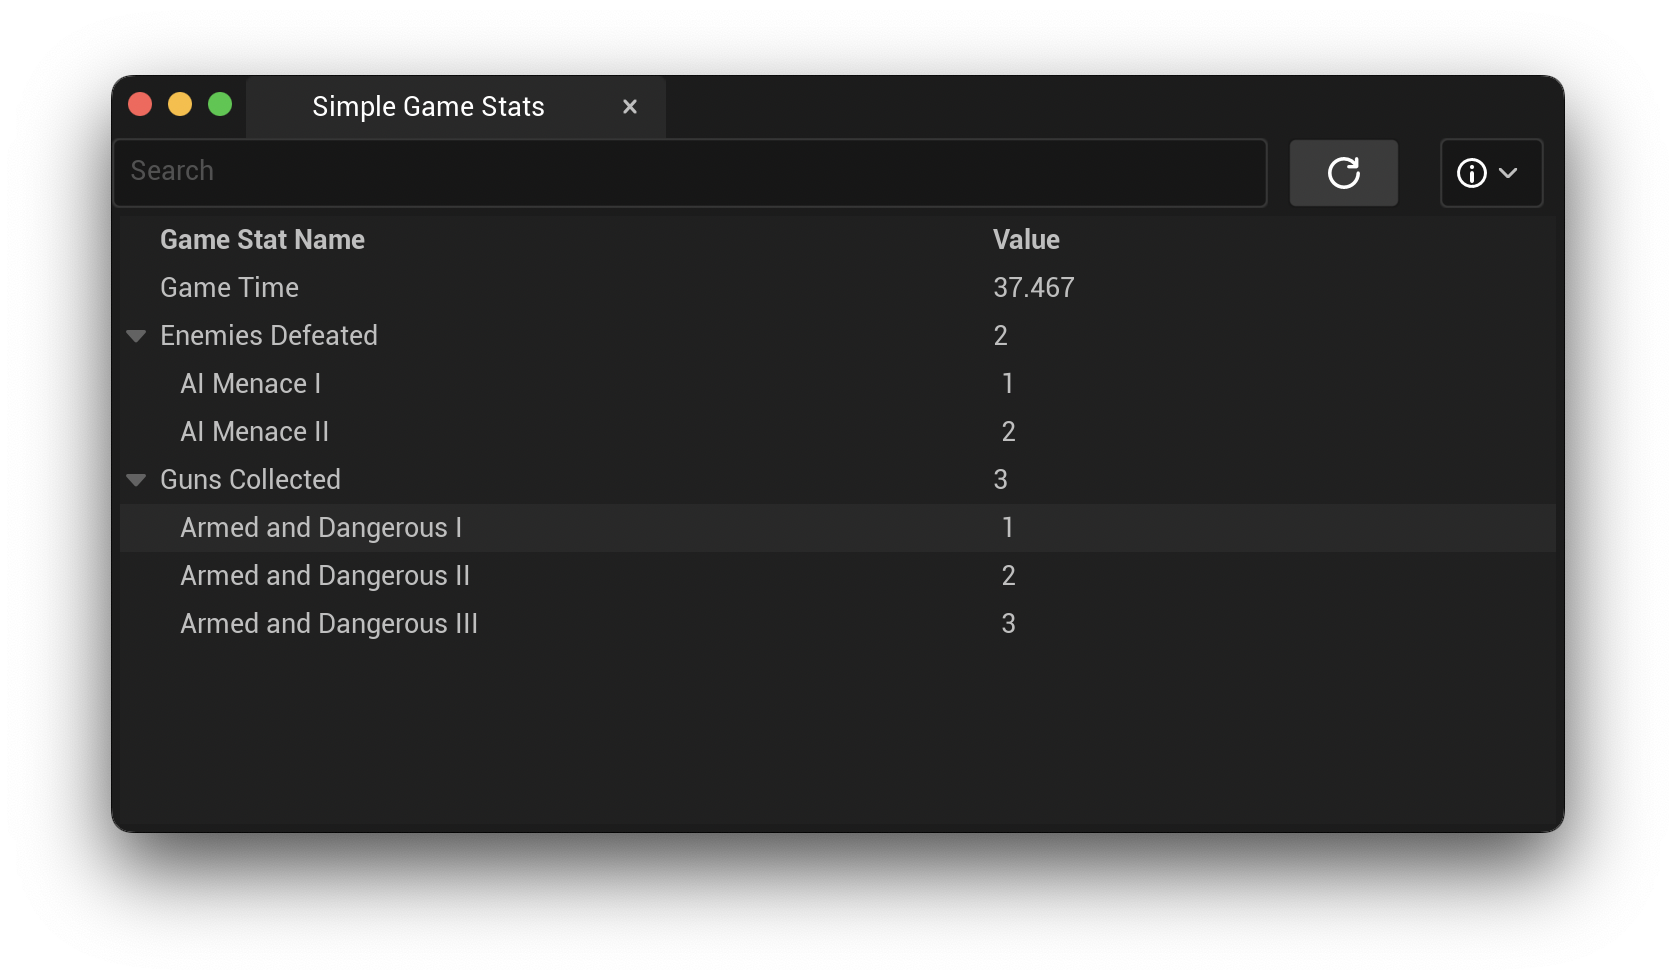
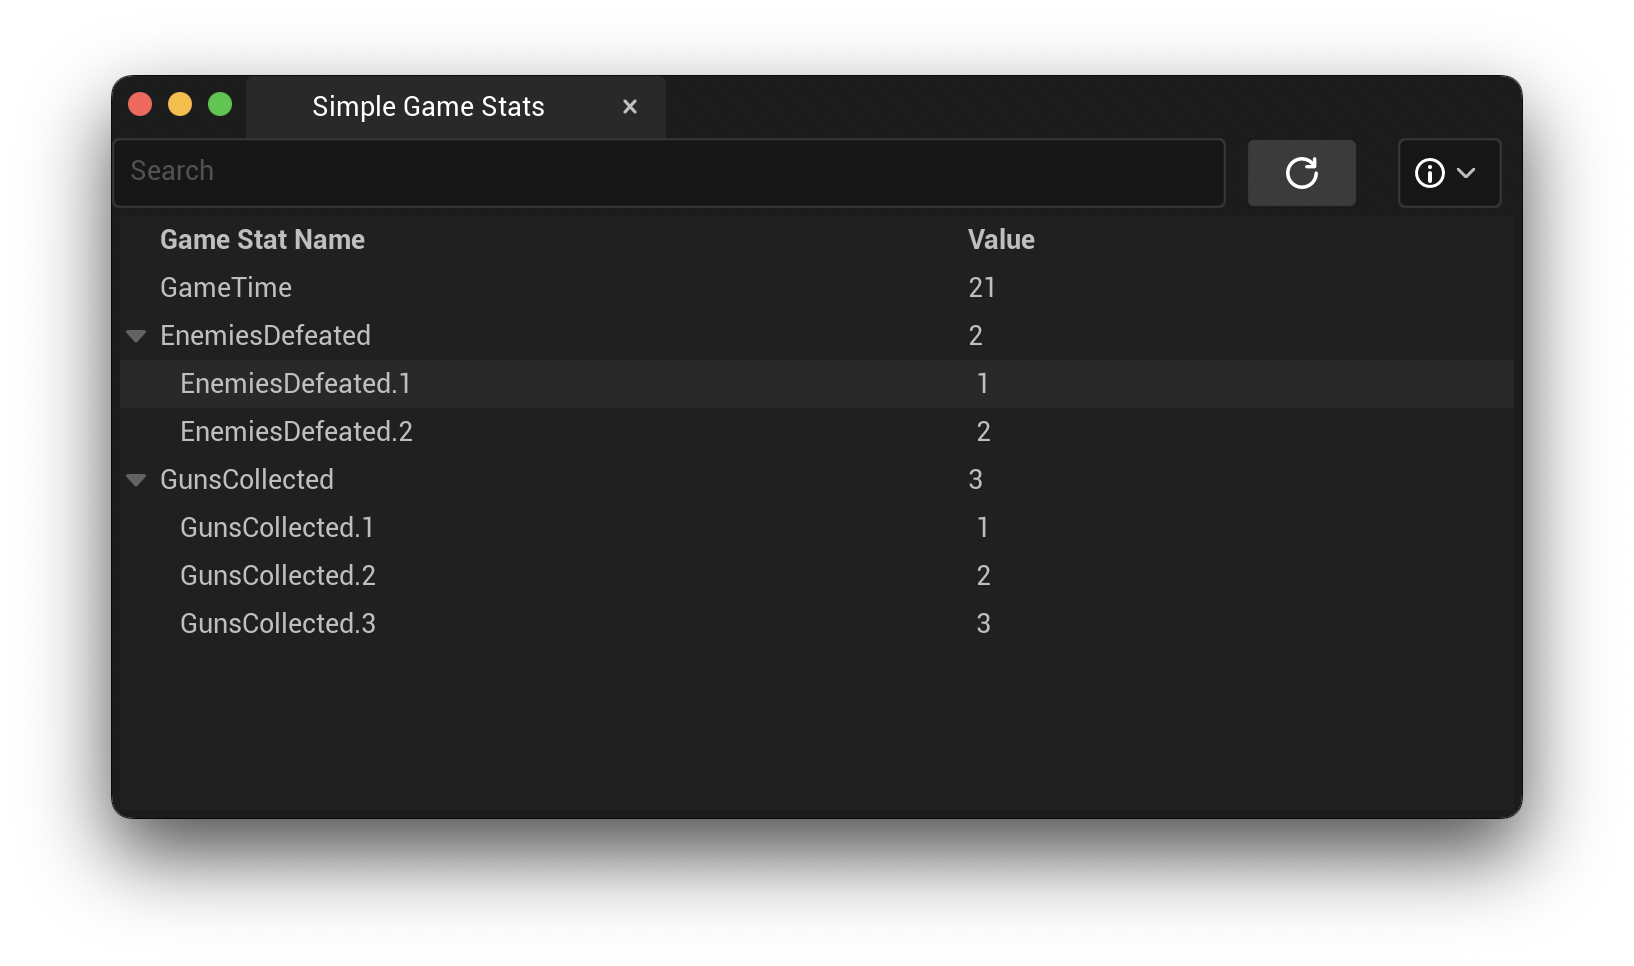
Updated documentation to reflect v1.1.0

diff --git a/docs/Setup.md b/docs/Setup.md
@@ -1,6 +1,6 @@
 # Setup
 
-Once the plugin is installed and enabled in Unreal Engine, if you want to use the plugin with C++, you will need to add `SimpleGameStats` to your project file, `<YourGame>.uproject`, under `Modules -> AdditionalDepenedencies`. Here's the example's project file for reference:
+Once the plugin is installed and enabled in Unreal Engine, if you want to use the plugin with C++, you will need to add `SimpleGameStats` to your project file, `<YourGame>.uproject`, under `Modules -> AdditionalDepenedencies` and the `Plugins` array. Here's the example's project file for reference:
 
 ```
 {
@@ -37,7 +37,12 @@ Once the plugin is installed and enabled in Unreal Engine, if you want to use th
         {
             "Name": "GameplayStateTree",
             "Enabled": true
-        }
+        },
+		{
+			"Name": "SimpleGameStats",
+			"Enabled": true,
+			"MarketplaceURL": "com.epicgames.launcher://ue/Fab/product/44e2d0d4-120c-4b6a-972a-b92c3887902d"
+		}
     ]
 }
 ```
@@ -52,9 +57,16 @@ With the Data Asset created, open it, and define your game's stats. The followin
 
 ![Example of 2 Game Stats Definitions with Milestones](./Images/StatsDefinitionDataAsset.png)
 
-The above image shows the definition of 2 game stats. The first one is "Game Time". I'm using this stat to track how long the player is playing the game. This stat does not define any milestones.
+The above image shows the definition of 2 game stats. The first one is "GameTime". I'm using this stat to track how long the player is playing the game. This stat does not define any milestones.
 
-The second stat is "Enemies Defeated". This tracks how many enemies the player defeats in the example project. For this stat, I've defined two milestones.
+The second stat is "EnemiesDefeated". This tracks how many enemies the player defeats in the example project. For this stat, I've defined two milestones.
+
+**Identifying Names (IDs)**
+
+* **EnemiesDefeated.1** - Requires 1 enemy killed
+* **EnemiesDefeated.2** - Requires 2 enemies killed
+
+**Localized Names**
 
 * **AI Menace I** - Requires 1 enemy killed
 * **AI Menace II** - Requires 2 enemy killed
@@ -63,7 +75,7 @@ When the value of the stat is greater than or equal to the configured value in t
 
 ## Register Stat Definitions
 
-To register the Simple Game Stats Definition asset, the `SimpleGameStatsSubsystem` has the `RegisterGameStats(USimpleGameStatsDefinition* Definitions)` function. You may use this in either C++ or Blueprints to register the data asset. Once registered, the corresponding stats will be tracked within the subsystem.
+To register the Simple Game Stats Definition asset, the `SimpleGameStatsSubsystem` has the `RegisterGameStats(USimpleGameStatsDefinition* Definitions)` function. You may use this in either C++ or Blueprints to register the data asset. Once registered, the corresponding stats will be created & tracked within the subsystem.
 
 **Blueprint**
 
@@ -79,7 +91,7 @@ if (IsValid(StatsSubsystem)) {
 }
 ```
 
-Please note that all game stats are identified by name. Names must be unique. In the event you attempt to register a game stat with an existing name, the subsystem will ignore the new stat.
+Please note that all game stats are identified by name. Names must be unique. In the event you attempt to register a game stat with an existing name, the subsystem will ignore the new stat and all milestones.
 
 In addition, you may register as many stat definition assets as you like provided the stat names are unique across all assets.
 
@@ -104,3 +116,5 @@ StatsSubsystem->OnGameStatMilestoneReachedEvent.AddDynamic(this, &AShooterGameMo
 The first event, `OnGameStatChangeEvent`, is published when any registered game stat value changes. This can be used to update UI elements tied to stats or inform different systems of the update.
 
 The second event, `OnGameStatMilestoneReachedEvent`, is published when a registered game stat's milestone target value is reached. This can be used to connect to other achievement or analytics systems.
+
+**Please Note**: `OnGameStatMilestoneReachedEvent` will broadcast prior to `OnGameStatChangeEvent`. This is to ensure all milestone data is up-to-date when `OnGameStatChangeEvent` broadcasts.

diff --git a/docs/ExampleProject.md b/docs/ExampleProject.md
@@ -4,14 +4,14 @@ The provided example project is the Unreal Engine 5.6 First Person template prov
 
 In the example project, I've registered three stats with various milestones:
 
-* Game Time
-* Enemies Defeated
-    * AI Menace I, Target Value: 1
-    * AI Menace II, Target Value: 2
-* Guns Collected
-    * Armed and Dangerous I, Target Value: 1
-    * Armed and Dangerous II, Target Value: 2
-    * Armed and Dangerous III, Target Value: 3
+* GameTime
+* EnemiesDefeated
+    * EnemiesDefeated.1 - AI Menace I, Target Value: 1
+    * EnemiesDefeated.2 - AI Menace II, Target Value: 2
+* GunsCollected
+    * GunsCollected.1 - Armed and Dangerous I, Target Value: 1
+    * GunsCollected.2 - Armed and Dangerous II, Target Value: 2
+    * GunsCollected.3 - Armed and Dangerous III, Target Value: 3
 
 In addition, I've added a Blueprint Compatible C++ Constants file. This avoids using "magic strings" throughout the project. Please create an equivalent in your project to avoid problems when renaming or removing stats.
 
@@ -27,13 +27,13 @@ class STATPLUGINEXAMPLE_API UStatConstants : public UObject
     
 public:
     UFUNCTION(BlueprintPure, Category="Stat Constants")
-    static FName GetStatName_GameTime() { return FName("Game Time"); }
+    static FName GetStatName_GameTime() { return FName("GameTime"); }
     
     UFUNCTION(BlueprintPure, Category="Stat Constants")
-    static FName GetStatName_EnemiesDefeated() { return FName("Enemies Defeated"); }
+    static FName GetStatName_EnemiesDefeated() { return FName("EnemiesDefeated"); }
     
     UFUNCTION(BlueprintPure, Category="Stat Constants")
-    static FName GetStatName_GunsCollected() { return FName("Guns Collected"); }
+    static FName GetStatName_GunsCollected() { return FName("GunsCollected"); }
 };
 ```
 
@@ -59,7 +59,7 @@ void AShooterGameMode::BeginPlay()
 
 ## AShooterCharacter
 
-For tracking the "Guns Collected" stat, I'm modifying the `AShooterCharacter` class, the `AddWeaponClass` function. This is the class in the example that is inherited by `BP_ShooterCharacter`, the player character.
+For tracking the "GunsCollected" stat, I'm modifying the `AShooterCharacter` class, the `AddWeaponClass` function. This is the class in the example that is inherited by `BP_ShooterCharacter`, the player character.
 
 ```c++
 void AShooterCharacter::AddWeaponClass(const TSubclassOf<AShooterWeapon>& WeaponClass)
@@ -79,11 +79,11 @@ void AShooterCharacter::AddWeaponClass(const TSubclassOf<AShooterWeapon>& Weapon
 }
 ```
 
-Using the `SimpleGameStatsSubsystem`, I call `IncrementStat` for the "Guns Collected" stat every time the player picks up a new kind of weapon.
+Using the `SimpleGameStatsSubsystem`, I call `IncrementStat` for the "GunsCollected" stat every time the player picks up a new kind of weapon.
 
 ## AShooterNPC
 
-For tracking the "Enemies Defeated" stat, I'm modifying the `AShooterNPC` class, the `Die` function. This is the class in the example that is inherited by `BP_ShooterNPC`, the AI enemies.
+For tracking the "EnemiesDefeated" stat, I'm modifying the `AShooterNPC` class, the `Die` function. This is the class in the example that is inherited by `BP_ShooterNPC`, the AI enemies.
 
 ```c++
 void AShooterNPC::Die()
@@ -106,11 +106,11 @@ void AShooterNPC::Die()
 }
 ```
 
-Using the `SimpleGameStatsSubsystem`, I call `IncrementStat` for the "Enemies Defeated" stat every time the AI NPC dies.
+Using the `SimpleGameStatsSubsystem`, I call `IncrementStat` for the "EnemiesDefeated" stat every time the AI NPC dies.
 
 ## BP_ShooterGameMode
 
-For tracking the "Game Time" stat, I'm modifying the `BP_ShooterGameMode` blueprint, the `Event Tick` event. I've also added a new function to retrieve the current "Game Time" stat value.
+For tracking the "GameTime" stat, I'm modifying the `BP_ShooterGameMode` blueprint, the `Event Tick` event. I've also added a new function to retrieve the current "GameTime" stat value.
 
 *GetGameTimeStatValue:*
 

diff --git a/docs/APIReference.md b/docs/APIReference.md
@@ -13,13 +13,16 @@ This document provides a reference for all public classes, structs, properties, 
 ## **Classes**
 
 ### `USimpleGameStatsSubsystem`
+
 `UGameInstanceSubsystem` that manages all registered stats at runtime.
 
 **Events**
+
 - `OnGameStatChangeEvent (USimpleGameStat* Stat)`
 - `OnGameStatMilestoneReachedEvent (USimpleGameStat* Stat, USimpleGameStatMilestone* Milestone)`
 
 **Functions**
+
 - `void GetStorage(FSimpleGameStatsSubsystemStorage& Result) const`
 - `void GetGameStats(TMap<FName, USimpleGameStat*>& Result) const`
 - `void GetGameStat(FName StatName, USimpleGameStat*& Result) const`
@@ -29,59 +32,79 @@ This document provides a reference for all public classes, structs, properties, 
 - `void DecrementStat(FName StatName, float Amount = 1, bool bBroadcastEvent = true)`
 - `void RemoveGameStat(const FName StatName, bool& Result)`
 - `void RemoveAllGameStats()`
+- `void ResetStat(FName StatName, bool bBroadcastEvent = true)`
+- `void ResetAllStats(bool bBroadcastEvent = true)`
 - `void InflateFromStorage(FSimpleGameStatsSubsystemStorage Storage)`
 
 ### `USimpleGameStat`
+
 `UObject` subclass that represents a single tracked stat and its milestones.
 
 **Properties**
+
 - `FName StatName`: Name of the stat.
+- `FText LocalizedStatName`: Localized name of the stat.
+- `FText LocalizedStatDescription`: Localized description of the stat.
 - `float Value`: Current value of the stat.
 - `TArray<USimpleGameStatMilestone*> Milestones`: Collection of milestones associated with this stat.
 
 **Events**
+
 - `OnChangeEvent (USimpleGameStat* Stat)`: Fired when the stat’s value changes.
 - `OnMilestoneReachedEvent (USimpleGameStat* Stat, USimpleGameStatMilestone* Milestone)`: Fired when a milestone is reached.
 
 **Functions**
+
 - `void GetStorage(FSimpleGameStatStorage& Result)`
 - `void GetValue(float& Result) const`
 - `void SetValue(float NewValue, bool bBroadcastEvent = true)`
 - `void Increment(float Amount = 1, bool bBroadcastEvent = true)`
 - `void Decrement(float Amount = 1, bool bBroadcastEvent = true)`
+- `void Reset(bool bBroadcastEvent = true)`
 - `void InflateFromStorage(FSimpleGameStatStorage Storage)`
 
 ### `USimpleGameStatMilestone`
+
 `UObject` subclass that represents a single milestone for a stat.
 
 **Properties**
+
 - `FName MilestoneName`: Name of the milestone.
+- `FText LocalizedMilestoneName`: Localized name of the milestone.
+- `FText LocalizedMilestoneDescription`: Localized description of the milestone.
 - `float TargetValue`: Required value to reach this milestone.
 - `bool bReached`: Whether the milestone has been reached.
 - `FDateTime ReachedTimestamp`: UTC timestamp when reached.
 
 ### `USimpleGameStatsDefinition`
+
 `UDataAsset` that defines all stats and their milestones for registration.
 
 **Properties**
+
 - `TArray<FSimpleGameStatDefinition> StatDefinitions`: List of all stat definitions.
 
 ## **Structs**
 
 ### `FSimpleGameStatDefinition`
+
 Defines a stat and its initial properties.
 
 - `FName StatName`
+- `FText LocalizedStatName`
+- `FText LocalizedStatDescription`
 - `float DefaultValue`
 - `TArray<FSimpleGameStatMilestoneDefinition> Milestones`
 
 ### `FSimpleGameStatMilestoneDefinition`
+
 Defines a milestone within a stat definition.
 
 - `FName MilestoneName`
 - `float TargetValue`
 
 ### `FSimpleGameStatStorage`
+
 Runtime storage for a stat.
 
 - `FName StatName`
@@ -89,14 +112,18 @@ Runtime storage for a stat.
 - `TArray<FSimpleGameStatMilestoneStorage> Milestones`
 
 ### `FSimpleGameStatMilestoneStorage`
+
 Runtime storage for a milestone.
 
 - `FName MilestoneName`
+- `FText LocalizedMilestoneName`
+- `FText LocalizedMilestoneDescription`
 - `float TargetValue`
 - `bool bReached`
 - `FDateTime ReachedTimestamp`
 
 ### `FSimpleGameStatsSubsystemStorage`
+
 Runtime storage for the subsystem.
 
 - `TArray<FSimpleGameStatStorage> GameStats`

diff --git a/docs/Storage.md b/docs/Storage.md
@@ -1,12 +1,12 @@
 # Storage
 
-**SimpleGameStats** provides a structure meant to be used in conjunction with Unreal's `USaveGame` class, as well as a simple API to save and load stat data. This allows you to save game stat data however you like.
+**SimpleGameStats** provides a structure meant to be used in conjunction with Unreal's `USaveGame` class, as well as a simple API to save and load stat data in the subsystem. This allows you to save game stat data however you like.
 
 *All functionality is supported by both Blueprints and C++.*
 
 ## FSimpleGameStatsSubsystemStorage
 
-The `FSimpleGameStatsSubsystemStorage` struct can store the list of registered stats with their values and milestones.
+The `FSimpleGameStatsSubsystemStorage` struct stores the list of registered stats with their values and milestones.
 
 To use this in your project, simply add this to your `USaveGame` subclass:
 

diff --git a/docs/Installation.md b/docs/Installation.md
@@ -1,5 +1,7 @@
 # Installation Guide
 
+Installation will be handled through Fab and Unreal Engine, however, if you are manually installing the plugin from source, you can follow these steps:
+
 * Copy `SimpleGameStats/` into `Plugins/`.
 * Open your project in Unreal Engine (You may be prompted to rebuild the project modules).
 
